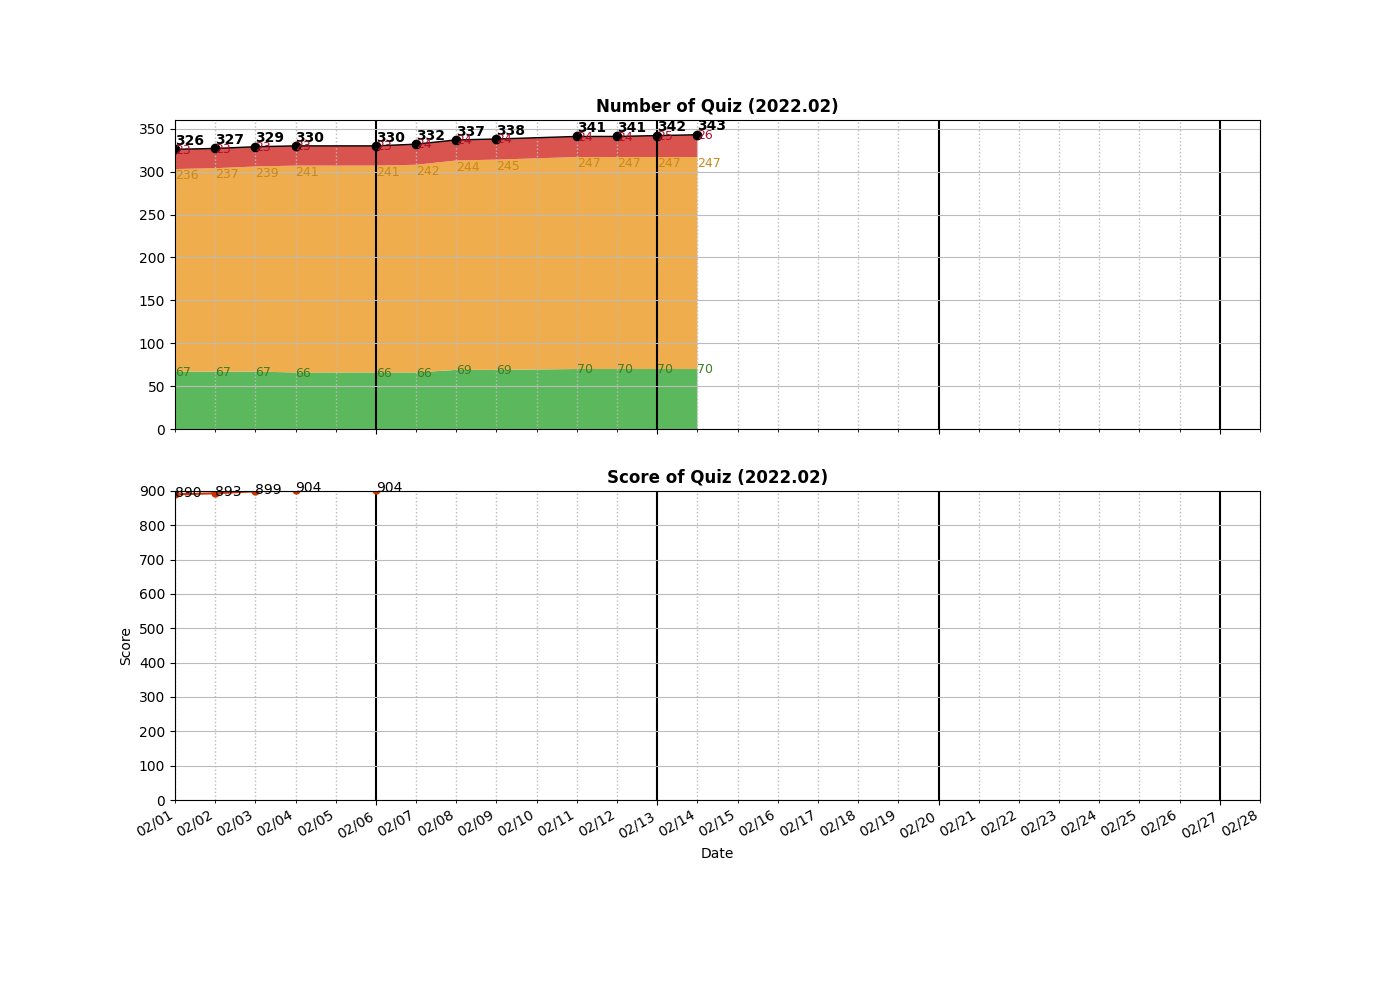
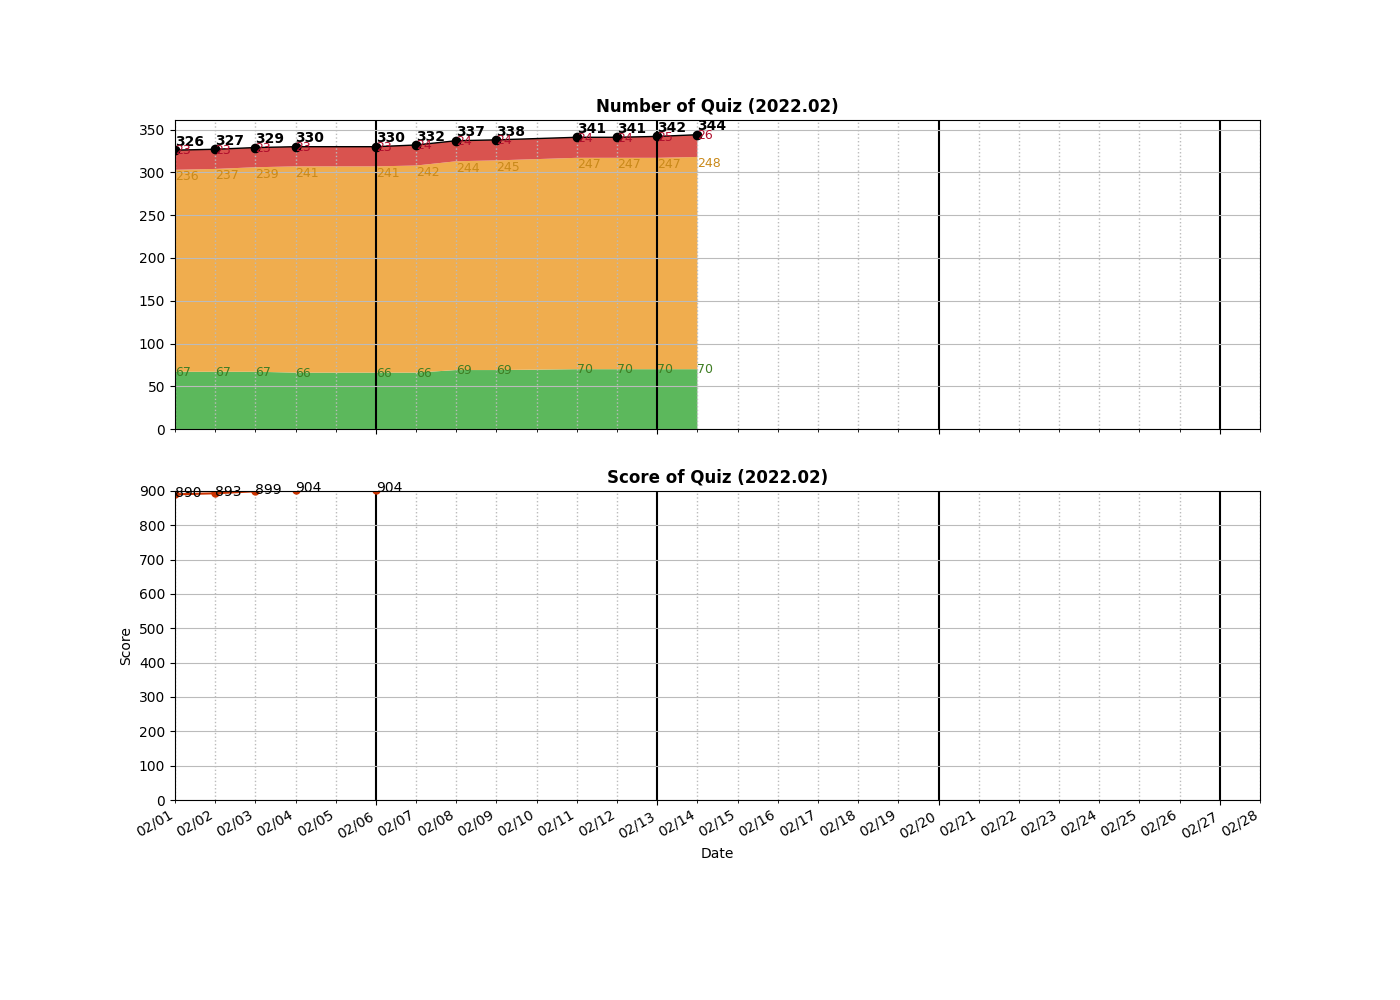
Added __1029__Two City Scheduling.py

Changed region(s): [[0.0921, 0.124, 0.4914, 0.186]]

diff --git a/algo/DP/__1029__Two City Scheduling.py b/algo/DP/__1029__Two City Scheduling.py
@@ -1,0 +1,50 @@
+class Solution:
+
+    # ===============================================
+    # Greedy [O(n): 57%]
+    def twoCitySchedCost(self, costs: List[List[int]]) -> int:
+        print("Code2")
+        diffCosts = []
+        for i, cost in enumerate(costs):
+            diff = cost[0] - cost[1]
+            if diff >= 0:
+                diffCosts.append((diff, i, True))
+            else:
+                diffCosts.append((-diff, i, False))
+                
+        diffCosts.sort(reverse=True)
+        res = 0
+        count0 = count1 = len(costs) //2
+        for i in range(len(costs)):
+            if count0 == 0:
+                res += costs[diffCosts[i][1]][1]
+                count1 -= 1
+            elif count1 == 0:
+                res += costs[diffCosts[i][1]][0]
+                count0 -= 1
+            else:
+                if diffCosts[i][2]:
+                    res += costs[diffCosts[i][1]][1]
+                    count1 -= 1
+                else:
+                    res += costs[diffCosts[i][1]][0]
+                    count0 -= 1
+        return res
+            
+    # ===============================================
+    # DP [O(n2): 5%]
+    def twoCitySchedCost1(self, costs: List[List[int]]) -> int:
+        print("Code1")
+        n = len(costs) // 2
+        dp = [ [inf for _ in range(n+1) ] for _ in range(2*n)] 
+        
+        dp[0][0] = costs[0][1]
+        dp[0][1] = costs[0][0]
+        
+        for i in range(1, 2*n):
+            for j in range(n+1):
+                if j == 0:
+                    dp[i][j] = dp[i-1][j] + costs[i][1]
+                else:
+                    dp[i][j] = min(dp[i-1][j-1] + costs[i][0], dp[i-1][j] + costs[i][1])
+        return dp[2*n-1][n]

diff --git a/README.md b/README.md
@@ -134,6 +134,7 @@ algo
 │   ├── __0935__Knight Dialer.py
 │   ├── __1014__Best Sightseeing Pair.py
 │   ├── __1025__Divisor Game.py
+│   ├── __1029__Two City Scheduling.py
 │   ├── __1048__Longest String Chain.py
 │   ├── __1049__Last Stone Weight II.py
 │   ├── __1130__Minimum Cost Tree From Leaf Values.py
@@ -385,7 +386,7 @@ algo
 └── _Template
     └── BinarySearch.py
 
-28 directories, 356 files
+28 directories, 357 files
 
 =====================================
 ============= Local Repo ============
@@ -682,6 +683,7 @@ __1011__Capacity To Ship Packages Within D Days.py
 __1014__Best Sightseeing Pair.py
 __1020__Number of Enclaves.py
 __1025__Divisor Game.py
+__1029__Two City Scheduling.py
 __1038__Binary Search Tree to Greater Sum Tree.py
 __1041__Robot Bounded In Circle.py
 __1048__Longest String Chain.py
@@ -734,7 +736,7 @@ __2154__Keep Multiplying Found Values by Two.py
 __2155__All Divisions With the Highest Score of a Binary Array.py
 __2156__Find Substring With Given Hash Value.py
 =====================================
-Num of Python Practice:  343
+Num of Python Practice:  344
 
 
 =====================================
@@ -1032,6 +1034,7 @@ Num of Python Practice:  343
  1014 Best Sightseeing Pair
  1020 Number of Enclaves
  1025 Divisor Game
+ 1029 Two City Scheduling
  1038 Binary Search Tree to Greater Sum Tree
  1041 Robot Bounded In Circle
  1048 Longest String Chain
@@ -1085,10 +1088,10 @@ Num of Python Practice:  343
  2156 Find Substring With Given Hash Value
 =====================================
 Solved / Total (Easy)  :   70 /  546
-Solved / Total (Medium):  247 / 1159
+Solved / Total (Medium):  248 / 1160
 Solved / Total (Hard)  :   26 /  467
-Solved / Total (All)   :  343 / 2172
-Total Score            :  941
+Solved / Total (All)   :  344 / 2173
+Total Score            :  944
 =====================================
 
 ```
